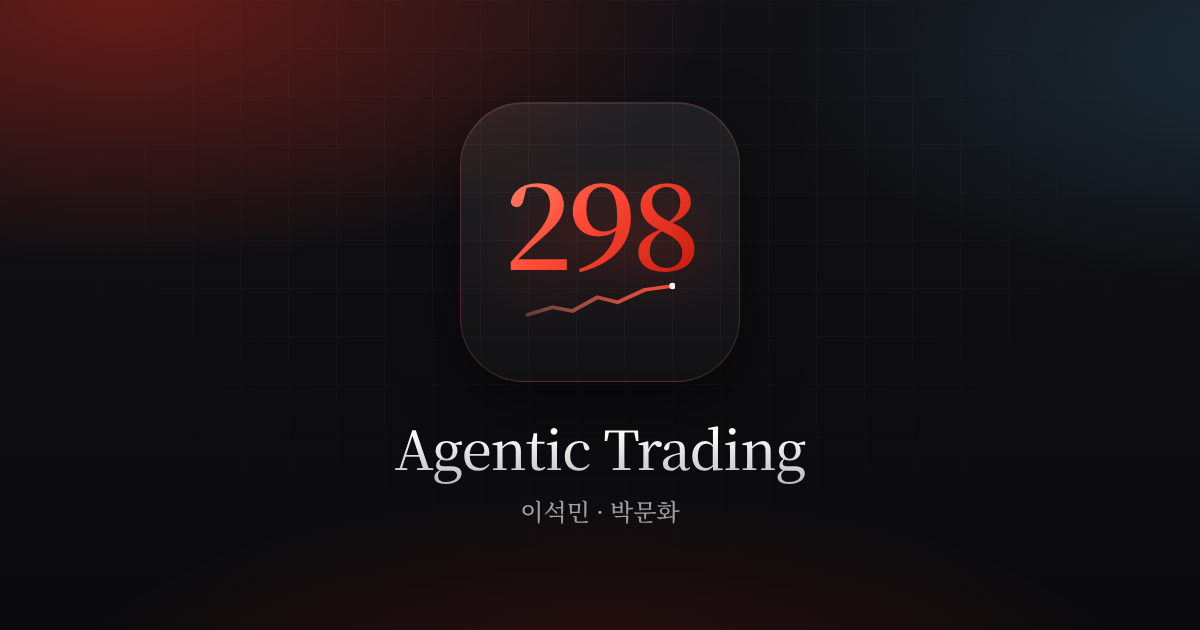
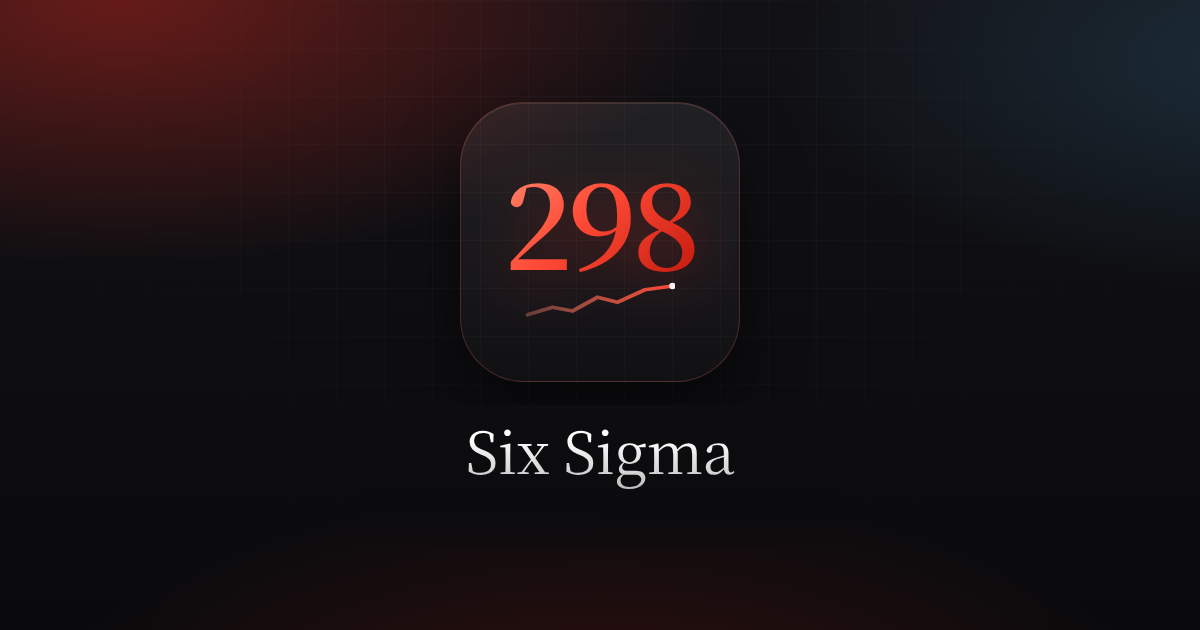
Dashboard: share preview as Six Sigma
Title Six Sigma, description 'Autonomous Stock Trading Agent', and a new
og.png with the 298 icon over 'Six Sigma' (names removed). Image URL bumped
to ?v=5 so KakaoTalk and others fetch the new thumbnail.

Claude-Session: https://claude.ai/code/session_01ATjxQjXT9xLkTvZTtNpqzA

Changed region(s): [[0.3392, 0.6635, 0.6783, 0.8444]]

diff --git a/docs/index.html b/docs/index.html
@@ -1,29 +1,29 @@
 <!doctype html>
-<!-- Agentic Trading · Designed by S.Lee -->
+<!-- Six Sigma · Designed by S.Lee -->
 <html lang="ko">
 <head>
 <meta charset="utf-8">
 <meta name="viewport" content="width=device-width, initial-scale=1, viewport-fit=cover">
-<title>Agentic Trading</title>
+<title>Six Sigma</title>
 <meta name="author" content="S.Lee">
-<meta name="description" content="Real-Time Dashboard">
-<meta property="og:title" content="Agentic Trading">
-<meta property="og:description" content="Real-Time Dashboard">
+<meta name="description" content="Autonomous Stock Trading Agent">
+<meta property="og:title" content="Six Sigma">
+<meta property="og:description" content="Autonomous Stock Trading Agent">
 <meta property="og:type" content="website">
 <meta property="og:url" content="https://isopink.github.io/hynix-298f/">
-<meta property="og:site_name" content="Agentic Trading">
-<meta property="og:image" content="https://isopink.github.io/hynix-298f/og.png?v=4">
+<meta property="og:site_name" content="Six Sigma">
+<meta property="og:image" content="https://isopink.github.io/hynix-298f/og.png?v=5">
 <meta property="og:image:width" content="1200">
 <meta property="og:image:height" content="630">
-<meta property="og:image:alt" content="298 로고 · Agentic Trading">
+<meta property="og:image:alt" content="298 로고 · Six Sigma">
 <meta name="twitter:card" content="summary_large_image">
-<meta name="twitter:image" content="https://isopink.github.io/hynix-298f/og.png?v=4">
+<meta name="twitter:image" content="https://isopink.github.io/hynix-298f/og.png?v=5">
 <link rel="icon" type="image/png" sizes="32x32" href="favicon-32.png">
 <link rel="icon" type="image/png" sizes="512x512" href="icon-512.png">
 <link rel="apple-touch-icon" href="apple-touch-icon.png">
 <meta name="theme-color" content="#0d0d10">
-<meta name="twitter:title" content="Agentic Trading">
-<meta name="twitter:description" content="Real-Time Dashboard">
+<meta name="twitter:title" content="Six Sigma">
+<meta name="twitter:description" content="Autonomous Stock Trading Agent">
 <link rel="preconnect" href="https://fonts.googleapis.com">
 <link rel="stylesheet" href="https://fonts.googleapis.com/css2?family=Noto+Serif+KR:wght@400;500;600;700&display=swap">
 <style>
